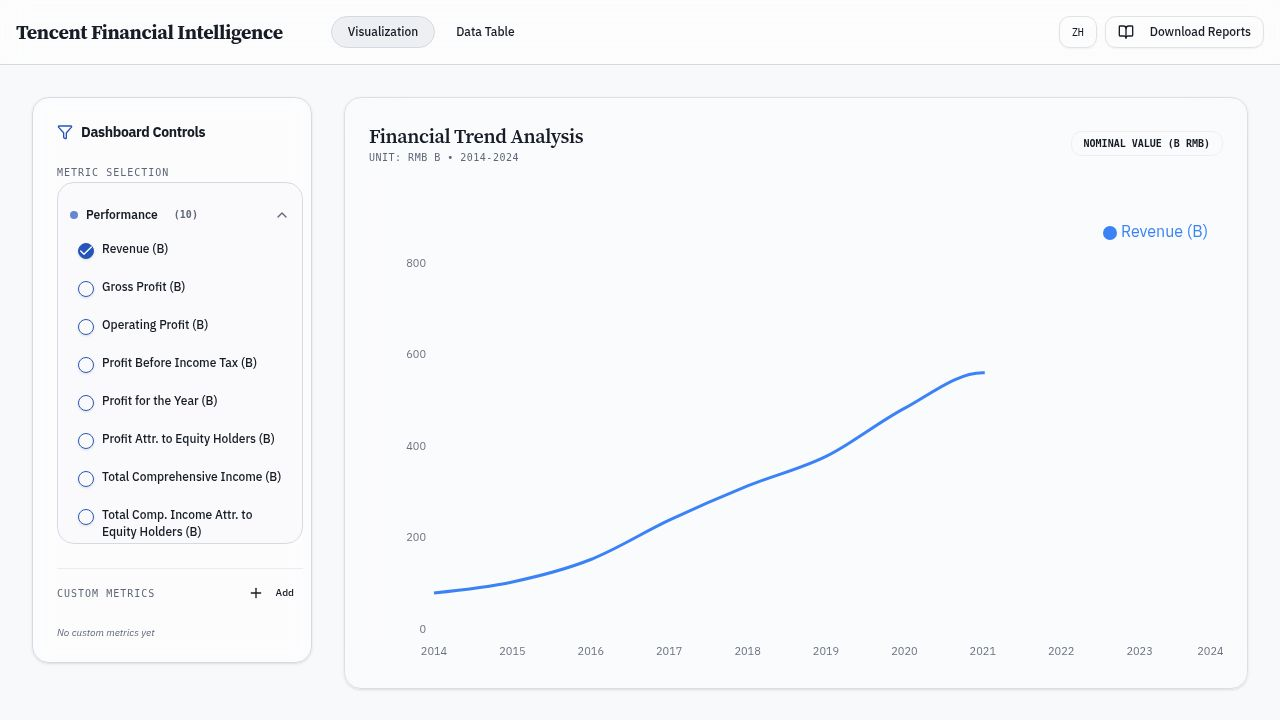
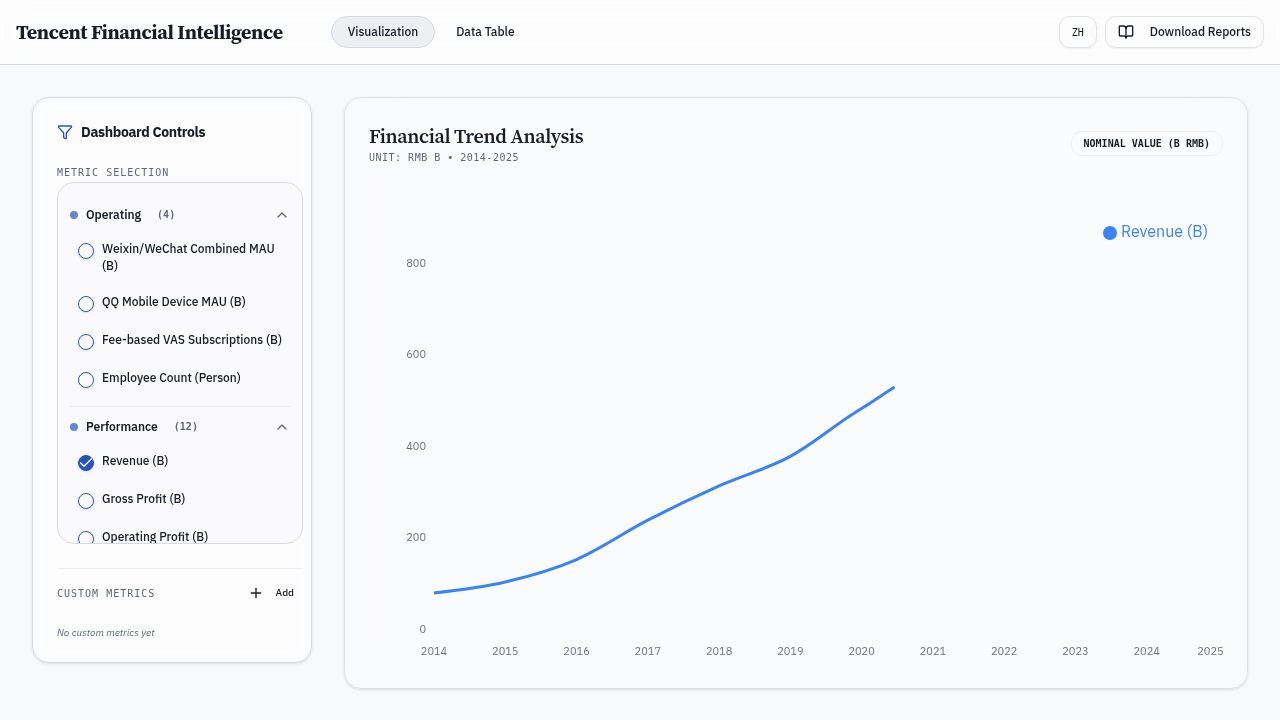
Update financial dashboard to include data up to 2025
Add 2025 data row to the DATA array in `dashboard.tsx`, update the year range slider and labels to include 2025, and incorporate new data from `tencent_financial_data_2014_2025_1773892309835.csv`.

Replit-Commit-Author: Agent
Replit-Commit-Session-Id: c8028b98-c1aa-4d53-8d69-89a851cd473f
Replit-Commit-Checkpoint-Type: full_checkpoint
Replit-Commit-Event-Id: d5b58812-55fd-4aaf-aa0b-e7448f92fe52
Replit-Commit-Screenshot-Url: https://storage.googleapis.com/screenshot-production-us-central1/383d7f69-fa15-47cb-b485-3c9fb8a079de/c8028b98-c1aa-4d53-8d69-89a851cd473f/k6kaKXv
Replit-Helium-Checkpoint-Created: true

diff --git a/client/src/pages/dashboard.tsx b/client/src/pages/dashboard.tsx
@@ -106,6 +106,23 @@ const CATEGORY_ZH: Record<string, string> = {
 };
 
 const DATA = [
+  {
+    year: 2025,
+    revenue: 751.8, grossProfit: 422.6, operatingProfit: 241.6, profitBeforeTax: 277.2, profitForYear: 229.8, profitAttrEquity: 224.8,
+    totalCompIncome: 275.4, totalCompIncomeAttrEquity: 267.8, nonIfrsOperatingProfit: 280.7, nonIfrsProfitAttrEquity: 259.6,
+    costOfRevenues: 329.2, sellingMarketingExpenses: 41.7, generalAdminExpenses: 136.1,
+    sellingMarketingExpensesMargin: 0.06, generalAdminExpensesMargin: 0.18,
+    otherGainsLosses: -3.2, netGainsLossesInvestments: 10.2,
+    interestIncome: 16.9, financeCosts: 15.1, shareOfProfitLossAssociates: 23.7,
+    coreProfit: 244.8, otherProfit: 35.7, incomeTaxExpense: 47.4,
+    vasRevenue: 369.3, domesticIntlGamesRevenue: 241.6, domesticGamesRevenue: 164.2, internationalGamesRevenue: 77.4, socialNetworksRevenue: 127.7,
+    marketingServicesRevenue: 145.0, fintechRevenue: 229.4, othersRevenue: 8.1,
+    vasGrossProfit: 222.3, marketingServicesGrossProfit: 83.4, fintechGrossProfit: 116.6, othersGrossProfit: 0.3,
+    vasGrossMargin: 0.60, marketingServicesGrossMargin: 0.58, fintechGrossMargin: 0.51, othersGrossMargin: 0.04,
+    cashCashEquivalents: 141.0, termDepositsOthers: 353.8, borrowings: 251.0, notesPayable: 136.7, netCash: 107.1,
+    operatingCashFlow: 303.1, capitalExpenditure: 79.2, deferredRevenue: 112.5, investmentPortfolio: null,
+    weixinWechatMAU: 1.42, qqMobileMAU: 0.51, feeBasedVASSubscriptions: 0.27, employeeCount: 116000
+  },
   { 
     year: 2024, 
     revenue: 660.3, grossProfit: 349.2, operatingProfit: 208.1, profitBeforeTax: 241.5, profitForYear: 196.5, profitAttrEquity: 194.1,
@@ -299,10 +316,10 @@ export default function Dashboard() {
   const [page, setPage] = useState<1 | 2>(1);
   const [lang, setLang] = useState<"en" | "zh">("en");
   const [selectedMetrics, setSelectedMetrics] = useState<MetricKey[]>(["revenue"]);
-  const [yearRange, setYearRange] = useState<[number, number]>([2014, 2024]);
+  const [yearRange, setYearRange] = useState<[number, number]>([2014, 2025]);
   const [plotMode, setPlotMode] = useState<"level" | "yoy">("level");
   const [plotType, setPlotType] = useState<"line" | "bar">("line");
-  const [compositionYear, setCompositionYear] = useState<number>(2024);
+  const [compositionYear, setCompositionYear] = useState<number>(2025);
   const [chatInput, setChatInput] = useState("");
   const [chatMessages, setChatMessages] = useState<Array<{ role: "user" | "assistant"; content: string }>>([]);
   const [chatLoading, setChatLoading] = useState(false);
@@ -778,9 +795,9 @@ export default function Dashboard() {
                       <div className="px-2 pt-2">
                         <Slider 
                           data-testid="slider-year-range"
-                          defaultValue={[2014, 2024]} 
+                          defaultValue={[2014, 2025]} 
                           min={2014} 
-                          max={2024} 
+                          max={2025} 
                           step={1}
                           onValueChange={(v) => setYearRange([v[0], v[1]])}
                         />
@@ -831,8 +848,8 @@ export default function Dashboard() {
                         </CardTitle>
                         <CardDescription className="tfi-mono text-[10px] uppercase tracking-wider">
                           {plotMode === "yoy"
-                            ? t(`Unit: ${UNIT_PERCENT} • 2014-2024`, `单位：${UNIT_PERCENT} • 2014-2024`)
-                            : t(`Unit: RMB ${UNIT_BILLIONS} • 2014-2024`, `单位：人民币 ${UNIT_BILLIONS} • 2014-2024`)}
+                            ? t(`Unit: ${UNIT_PERCENT} • 2014-2025`, `单位：${UNIT_PERCENT} • 2014-2025`)
+                            : t(`Unit: RMB ${UNIT_BILLIONS} • 2014-2025`, `单位：人民币 ${UNIT_BILLIONS} • 2014-2025`)}
                         </CardDescription>
                       </div>
                       <Badge variant="outline" className="tfi-mono text-[10px] uppercase py-1 px-3">
@@ -1216,7 +1233,7 @@ export default function Dashboard() {
                 <div>
                   <CardTitle className="tfi-title text-2xl">{t("Financial Data Repository", "财务数据仓库")}</CardTitle>
                   <CardDescription className="tfi-mono text-[10px] uppercase tracking-widest pt-1">
-                    {t("Comprehensive Metrics 2014–2024 • RMB Billions", "2014–2024 全面指标 • 人民币 十亿元")}
+                    {t("Comprehensive Metrics 2014–2025 • RMB Billions", "2014–2025 全面指标 • 人民币 十亿元")}
                   </CardDescription>
                 </div>
                 <div className="flex items-center gap-3">
